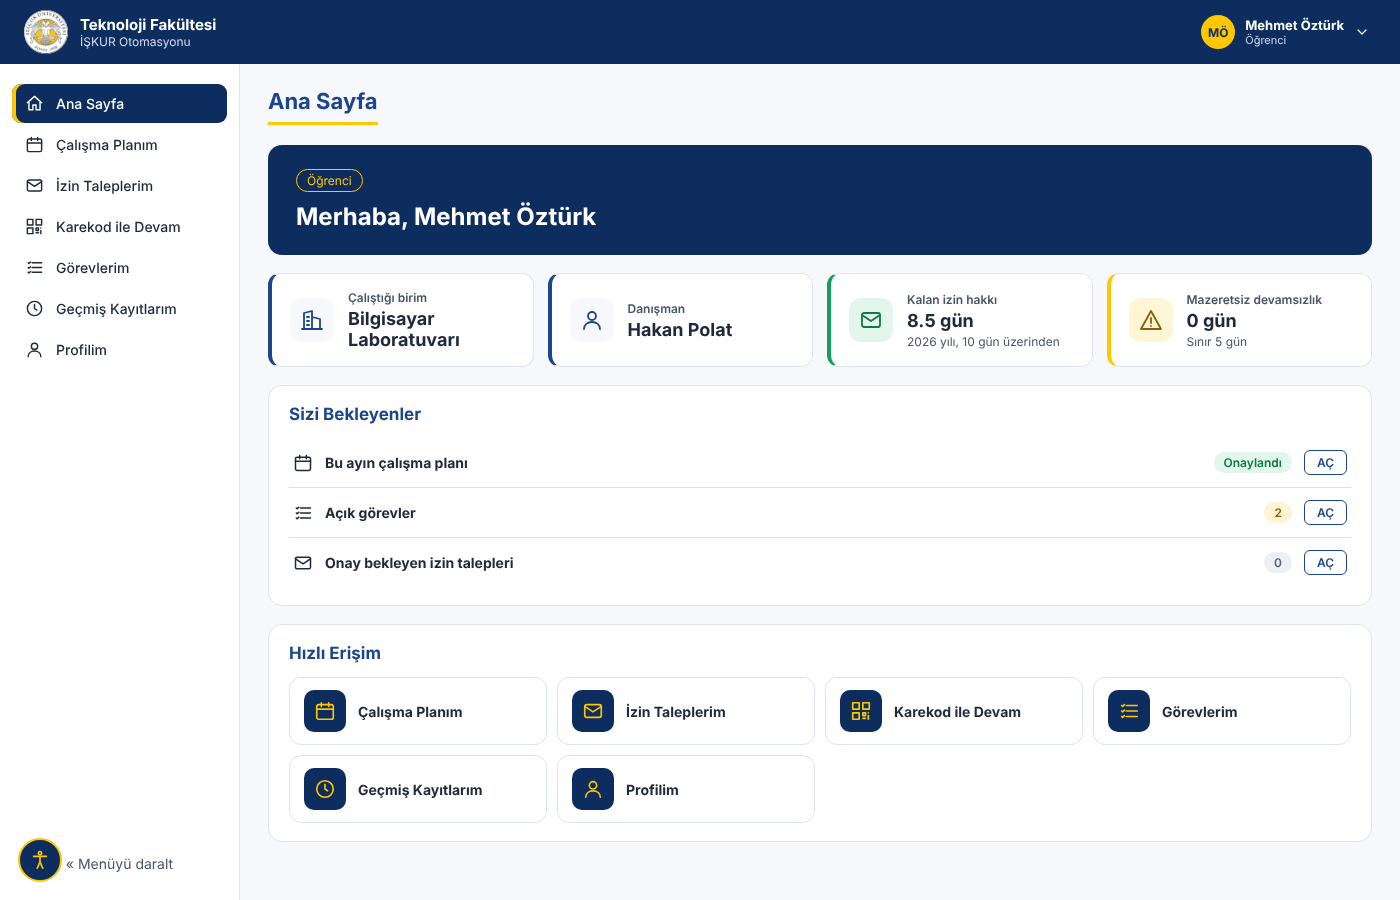
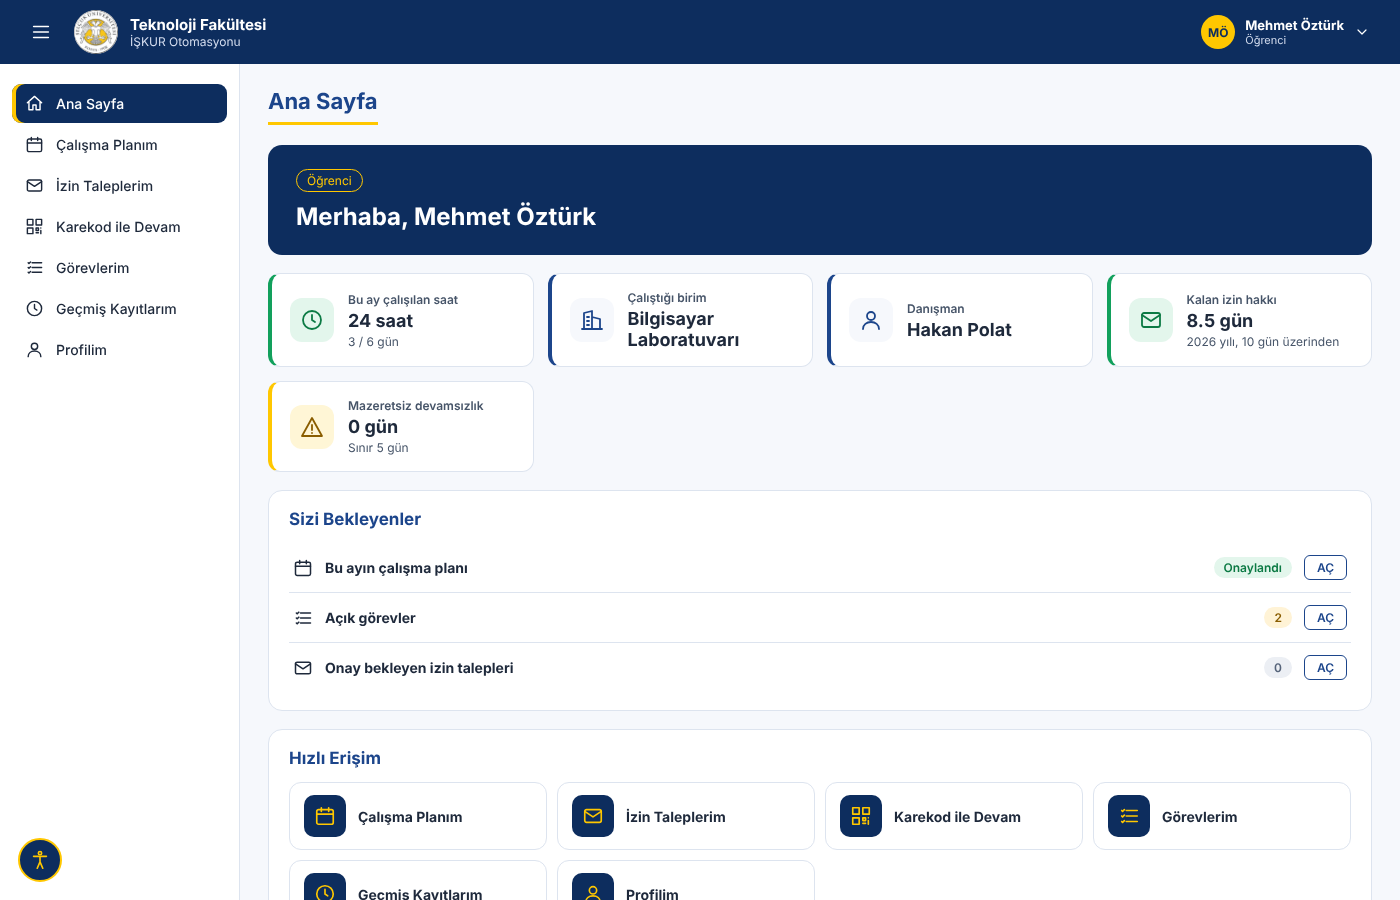
Raporlar danışmana kapatıldı, menü düğmesi, öğrenci için aylık çalışılan saat ve günler

diff --git a/frontend/src/pages/student/HistoryPage.tsx b/frontend/src/pages/student/HistoryPage.tsx
@@ -1,14 +1,15 @@
 import { useState } from 'react';
 import { api } from '../../api/client';
-import type { Absence, Attendance, Leave, WorkPlan } from '../../api/types';
-import { Alert, Badge, Card, Empty } from '../../components/ui';
+import type { Absence, Attendance, AttendanceComparison, Leave, WorkPlan } from '../../api/types';
+import { Alert, Badge, Card, Empty, MonthPicker } from '../../components/ui';
 import {
-  absenceTypeLabels, fmtDate, fmtDateTime, leaveStatusLabels, leaveTone, leaveTypeLabels, monthYear, planStatusLabels, planTone,
+  absenceTypeLabels, fmtDate, fmtDateTime, leaveStatusLabels, leaveTone, leaveTypeLabels, monthYear, outcomeLabels, outcomeTone, planStatusLabels, planTone,
 } from '../../format';
 import { useLoad } from '../../useLoad';
 
-type Tab = 'plans' | 'leaves' | 'absences' | 'attendance';
+type Tab = 'summary' | 'plans' | 'leaves' | 'absences' | 'attendance';
 const tabs: { id: Tab; label: string }[] = [
+  { id: 'summary', label: 'Çalışılan günler' },
   { id: 'plans', label: 'Çalışma planları' },
   { id: 'leaves', label: 'İzinler' },
   { id: 'absences', label: 'Devamsızlıklar' },
@@ -18,7 +19,7 @@ const tabs: { id: Tab; label: string }[] = [
 export default function HistoryPage() {
   const thisYear = new Date().getFullYear();
   const [year, setYear] = useState(thisYear);
-  const [tab, setTab] = useState<Tab>('plans');
+  const [tab, setTab] = useState<Tab>('summary');
   const years = Array.from({ length: 6 }, (_, i) => thisYear - i);
 
   return (
@@ -31,15 +32,77 @@ export default function HistoryPage() {
             </button>
           ))}
         </div>
+        {tab !== 'summary' && (
         <select value={year} onChange={(e) => setYear(Number(e.target.value))}>
           {years.map((y) => <option key={y} value={y}>{y}</option>)}
         </select>
+        )}
       </div>
+      {tab === 'summary' && <Summary />}
       {tab === 'plans' && <Plans year={year} />}
       {tab === 'leaves' && <Leaves year={year} />}
       {tab === 'absences' && <Absences year={year} />}
       {tab === 'attendance' && <Records year={year} />}
     </Card>
+  );
+}
+
+const weekdayName = (iso: string) => new Date(`${iso}T12:00:00`).toLocaleDateString('tr-TR', { weekday: 'long' });
+
+/** Seçilen ayda kaç saat çalışıldığını ve hangi günlerde çalışıldığını gösterir. */
+function Summary() {
+  const now = new Date();
+  const [year, setYear] = useState(now.getFullYear());
+  const [month, setMonth] = useState(now.getMonth() + 1);
+  const data = useLoad(() => api.get<AttendanceComparison>(`/api/attendance/me/comparison?year=${year}&month=${month}`), [year, month]);
+  const c = data.data;
+
+  return (
+    <div className="stack">
+      <MonthPicker year={year} month={month} onChange={(y, m) => { setYear(y); setMonth(m); }} />
+      {data.error && <Alert>{data.error}</Alert>}
+      {c && !c.hasApprovedPlan && <Empty>Bu ay için onaylı çalışma planı yok.</Empty>}
+      {c && c.hasApprovedPlan && (
+        <>
+          <div className="tiles">
+            <div className="tile-card tone-bg-green">
+              <div>
+                <span className="tile-label">Çalışılan saat</span>
+                <strong className="tile-value">{c.workedHours} saat</strong>
+                <span className="tile-hint">Günlük {c.dailyHours} saat</span>
+              </div>
+            </div>
+            <div className="tile-card">
+              <div>
+                <span className="tile-label">Çalışılan gün</span>
+                <strong className="tile-value">{c.attendedDays} / {c.plannedDays}</strong>
+                <span className="tile-hint">Planlanan günler içinde</span>
+              </div>
+            </div>
+            <div className="tile-card tone-bg-amber">
+              <div>
+                <span className="tile-label">İzinli / devamsız gün</span>
+                <strong className="tile-value">{c.leaveDays} / {c.recordedAbsenceDays + c.missingDays}</strong>
+                <span className="tile-hint">{monthYear(year, month)}</span>
+              </div>
+            </div>
+          </div>
+          <table className="table">
+            <thead><tr><th>Tarih</th><th>Gün</th><th>Durum</th><th>Çalışılan saat</th></tr></thead>
+            <tbody>
+              {c.days.map((d) => (
+                <tr key={d.date}>
+                  <td>{fmtDate(d.date)}</td>
+                  <td>{weekdayName(d.date)}</td>
+                  <td><Badge tone={outcomeTone[d.outcome]}>{outcomeLabels[d.outcome]}</Badge></td>
+                  <td>{d.outcome === 'Attended' ? `${c.dailyHours} saat` : '–'}</td>
+                </tr>
+              ))}
+            </tbody>
+          </table>
+        </>
+      )}
+    </div>
   );
 }
 

diff --git a/frontend/src/styles.css b/frontend/src/styles.css
@@ -59,7 +59,7 @@ html[data-contrast="high"] .badge { border: 1px solid #000; }
 .brand-text strong { font-size: 15px; }
 .brand-text span { font-size: 12px; color: var(--navy-text); }
 .icon { flex: none; }
-.icon-btn { background: none; border: 0; color: #fff; cursor: pointer; padding: 6px; border-radius: 8px; display: none; }
+.icon-btn { background: none; border: 0; color: #fff; cursor: pointer; padding: 6px; border-radius: 8px; display: inline-flex; }
 .icon-btn:hover { background: var(--navy-2); }
 .user-menu { position: relative; }
 .user-btn { display: flex; align-items: center; gap: 10px; background: none; border: 0; color: #fff; font: inherit; cursor: pointer; padding: 4px 6px; border-radius: 10px; }
@@ -84,8 +84,7 @@ nav { display: flex; flex-direction: column; gap: 2px; overflow-y: auto; flex: 1
 .nav-item:hover { background: var(--bg); color: var(--blue); text-decoration: none; }
 .nav-item.active { background: var(--navy); color: #fff; box-shadow: inset 4px 0 0 var(--gold); }
 .nav-icon { width: 20px; display: grid; place-items: center; flex: none; }
-.link-btn { background: none; border: 0; color: var(--muted); cursor: pointer; padding: 8px; font: inherit; }
-.collapsed .nav-label, .collapsed .collapse-btn { font-size: 0; }
+.collapsed .nav-label { display: none; }
 .collapsed .nav-item { justify-content: center; }
 .main { min-width: 0; }
 .page-head { padding: 24px 28px 0; }
@@ -193,13 +192,11 @@ nav { display: flex; flex-direction: column; gap: 2px; overflow-y: auto; flex: 1
   .user-text { display: none; }
 }
 @media (max-width: 800px) {
-  .icon-btn { display: inline-flex; }
   .body, .collapsed .body { grid-template-columns: 1fr; }
   .sidebar { position: fixed; top: 0; left: 0; bottom: 0; height: auto; width: 270px; z-index: 60; transform: translateX(-100%); transition: transform .2s; padding-top: 24px; }
   .drawer-open .sidebar { transform: none; }
   .drawer-open .drawer-back { display: block; position: fixed; inset: 0; background: rgba(9, 31, 67, .5); z-index: 55; }
-  .collapsed .nav-label { font-size: inherit; }
-  .collapse-btn { display: none; }
+  .collapsed .nav-label { display: inline; }
   .grid-2 { grid-template-columns: 1fr; }
   .page-head, .content { padding-left: 16px; padding-right: 16px; }
   .public { flex-direction: column; }

diff --git a/frontend/src/pages/Dashboard.tsx b/frontend/src/pages/Dashboard.tsx
@@ -1,6 +1,6 @@
 import { Link } from 'react-router-dom';
 import { api } from '../api/client';
-import type { AbsenceNotice, Leave, LeaveAlert, LeaveBalance, Paged, PlanCalendar, StudentProfileFull, StudentSummary, StudentTask, WorkPlan } from '../api/types';
+import type { AbsenceNotice, AttendanceComparison, Leave, LeaveAlert, LeaveBalance, Paged, PlanCalendar, StudentProfileFull, StudentSummary, StudentTask, WorkPlan } from '../api/types';
 import { useAuth } from '../auth/AuthContext';
 import { Alert, Badge } from '../components/ui';
 import { Icon } from '../components/Icon';
@@ -80,6 +80,7 @@ function StudentSummary() {
   const calendar = useLoad(() => api.get<PlanCalendar>(`/api/work-plans/me/calendar?year=${year}&month=${month}`), []);
   const tasks = useLoad(() => api.get<StudentTask[]>('/api/tasks/me?status=Open'), []);
   const leaves = useLoad(() => api.get<Leave[]>(`/api/leaves/me?year=${year}`), []);
+  const worked = useLoad(() => api.get<AttendanceComparison>(`/api/attendance/me/comparison?year=${year}&month=${month}`), []);
 
   const p = profile.data;
   const b = balance.data;
@@ -96,6 +97,7 @@ function StudentSummary() {
         </Alert>
       ))}
       <div className="tiles">
+        <Tile icon="clock" label="Bu ay çalışılan saat" value={worked.data?.hasApprovedPlan ? `${worked.data.workedHours} saat` : '–'} hint={worked.data?.hasApprovedPlan ? `${worked.data.attendedDays} / ${worked.data.plannedDays} gün` : 'Onaylı plan yok'} tone="green" />
         <Tile icon="building" label="Çalıştığı birim" value={p?.currentUnit?.workUnitName ?? 'Atanmadı'} />
         <Tile icon="user" label="Danışman" value={p?.currentAdvisor?.advisorName ?? 'Atanmadı'} />
         <Tile icon="mail" label="Kalan izin hakkı" value={b ? `${b.remaining} gün` : '–'} hint={b ? `${b.year} yılı, ${b.limit} gün üzerinden` : undefined} tone="green" />

diff --git a/frontend/src/layout/AppLayout.tsx b/frontend/src/layout/AppLayout.tsx
@@ -35,6 +35,9 @@ export default function AppLayout() {
 
   if (!user) return null;
 
+  // Dar ekranda menü çekmece gibi açılır, geniş ekranda daralır / genişler.
+  const toggleMenu = () => (window.matchMedia('(max-width: 800px)').matches ? setDrawer((d) => !d) : setCollapsed((c) => !c));
+
   const items = menus[user.role];
   const current = items.find((m) => (m.path === '/' ? location.pathname === '/' : location.pathname.startsWith(m.path)));
   const title = current?.label ?? (location.pathname.startsWith('/ogrenciler/') ? 'Öğrenci Bilgileri' : 'İŞKUR Otomasyonu');
@@ -49,7 +52,7 @@ export default function AppLayout() {
     <div className={`shell ${collapsed ? 'collapsed' : ''} ${drawer ? 'drawer-open' : ''}`}>
       <header className="site-header">
         <div className="header-in">
-          <button className="icon-btn menu-toggle" onClick={() => setDrawer((d) => !d)} aria-label="Menüyü aç veya kapat">
+          <button className="icon-btn menu-toggle" onClick={toggleMenu} aria-label="Menüyü aç veya kapat">
             <Icon name="menu" size={22} />
           </button>
           <Brand />
@@ -97,9 +100,6 @@ export default function AppLayout() {
               </NavLink>
             ))}
           </nav>
-          <button className="link-btn collapse-btn" onClick={() => setCollapsed((c) => !c)}>
-            {collapsed ? '»' : '« Menüyü daralt'}
-          </button>
         </aside>
         {drawer && <div className="drawer-back" onClick={() => setDrawer(false)} />}
 

diff --git a/frontend/src/layout/menu.ts b/frontend/src/layout/menu.ts
@@ -47,7 +47,6 @@ export const menus: Record<Role, MenuItem[]> = {
     { path: '/izinler', label: 'İzin Durumu', icon: 'mail', desc: 'Öğrencilerinizin izin durumu' },
     { path: '/gorevler', label: 'Görev ve Değerlendirme', icon: 'tasks', desc: 'Görev ver, değerlendirme notu yaz' },
     { path: '/bildirimler', label: 'Devamsızlık Bildirimi', icon: 'bell', desc: 'Bölüm başkanlığına bildirim gönder' },
-    { path: '/raporlar', label: 'Raporlar', icon: 'report', desc: 'Aylık çalışma, devam ve izin raporları' },
   ],
   Student: [
     home,

diff --git a/frontend/src/api/types.ts b/frontend/src/api/types.ts
@@ -213,6 +213,8 @@ export interface AttendanceComparison {
   leaveDays: number;
   recordedAbsenceDays: number;
   missingDays: number;
+  workedHours: number;
+  dailyHours: number;
   days: { date: string; outcome: PlannedDayOutcome }[];
 }
 

diff --git a/src/IskurAuto.Service/Implementations/AttendanceService.cs b/src/IskurAuto.Service/Implementations/AttendanceService.cs
@@ -25,10 +25,11 @@ public class AttendanceService : IAttendanceService
     private readonly IClock _clock;
     private readonly IAuditService _audit;
     private readonly ICurrentUser _current;
+    private readonly WorkPlanSettings _settings;
 
     public AttendanceService(IAttendanceSessionRepository sessions, IAttendanceRecordRepository records,
         IStudentRepository students, IWorkPlanRepository plans, ILeaveRepository leaves, IAbsenceRepository absences,
-        IUnitOfWork uow, IClock clock, IAuditService audit, ICurrentUser current)
+        IUnitOfWork uow, IClock clock, IAuditService audit, ICurrentUser current, WorkPlanSettings settings)
     {
         _sessions = sessions;
         _records = records;
@@ -40,6 +41,7 @@ public class AttendanceService : IAttendanceService
         _clock = clock;
         _audit = audit;
         _current = current;
+        _settings = settings;
     }
 
     // ── Oturum ve karekod ────────────────────────────────────────────────────
@@ -380,7 +382,7 @@ public class AttendanceService : IAttendanceService
         var result = AttendanceComparer.Compare(approvedPlan?.Days ?? Enumerable.Empty<WorkPlanDay>(),
             attended, leaves, absences, _clock.Today);
 
-        return result.ToDto(student.Id, year, month, approvedPlan is not null);
+        return result.ToDto(student.Id, year, month, approvedPlan is not null, _settings.DailyHours);
     }
 
     private static string RequireReason(string? value, string field, string message)

diff --git a/tests/IskurAuto.Tests/Support/TestSupport.cs b/tests/IskurAuto.Tests/Support/TestSupport.cs
@@ -193,7 +193,7 @@ public sealed class TestScope : IDisposable
             db.Documents, policy, context, db.Clock, audit, db.Current, db.WorkPlanSettings);
         Absences = new AbsenceService(absenceRepository, students, context, db.Clock, audit, db.Current);
         Attendance = new AttendanceService(new AttendanceSessionRepository(context), new AttendanceRecordRepository(context),
-            students, new WorkPlanRepository(context), leaveRepository, absenceRepository, context, db.Clock, audit, db.Current);
+            students, new WorkPlanRepository(context), leaveRepository, absenceRepository, context, db.Clock, audit, db.Current, db.WorkPlanSettings);
         Tasks = new TaskService(new StudentTaskRepository(context), students, context, db.Clock, audit, db.Current);
         AbsenceNotices = new AbsenceNoticeService(new AbsenceNoticeRepository(context), students, context, db.Clock, audit, db.Current);
         Reports = new ReportService(students, new WorkPlanRepository(context), new AttendanceRecordRepository(context), leaveRepository,

diff --git a/tests/IskurAuto.Tests/Services/ReportServiceTests.cs b/tests/IskurAuto.Tests/Services/ReportServiceTests.cs
@@ -157,8 +157,16 @@ public class ReportServiceTests
         var head = await ReportAsync(f, ReportKind.MonthlyWork, anotherDepartment, UserRole.DepartmentHead);
         Assert.Equal(new[] { "Mehmet Öztürk", "TOPLAM" }, Names(head));      // istenen bölüm kapsamı aşamaz
 
-        var advisor = await ReportAsync(f, ReportKind.MonthlyWork, October, UserRole.Advisor);
-        Assert.Equal(new[] { "Mehmet Öztürk", "TOPLAM" }, Names(advisor));
+    }
+
+    [Fact]
+    public async Task Advisors_CannotOpenReports()
+    {
+        using var f = await CreateAsync();
+        f.Db.Current.As(UserRole.Advisor, f.Seed.AdvisorId, f.Seed.BmId);
+        using var scope = f.Db.NewScope();
+
+        await Assert.ThrowsAsync<ForbiddenException>(() => scope.Reports.GetAsync(ReportKind.MonthlyWork, October));
     }
 
     [Fact]

diff --git a/src/IskurAuto.Service/Mapping/AttendanceMappers.cs b/src/IskurAuto.Service/Mapping/AttendanceMappers.cs
@@ -46,7 +46,7 @@ public static class AttendanceMappers
         VoidReason = r.VoidReason
     };
 
-    public static AttendanceComparisonDto ToDto(this AttendanceComparison c, int studentId, int year, int month, bool hasPlan) => new()
+    public static AttendanceComparisonDto ToDto(this AttendanceComparison c, int studentId, int year, int month, bool hasPlan, decimal dailyHours) => new()
     {
         StudentId = studentId,
         Year = year,
@@ -57,6 +57,8 @@ public static class AttendanceMappers
         LeaveDays = c.LeaveDays,
         RecordedAbsenceDays = c.RecordedAbsenceDays,
         MissingDays = c.MissingDays,
+        WorkedHours = c.AttendedDays * dailyHours,
+        DailyHours = dailyHours,
         Days = c.Days.Select(d => new PlannedDayDto { Date = d.Date, Outcome = d.Outcome }).ToList()
     };
 }

diff --git a/tests/IskurAuto.Tests/Services/AttendanceServiceTests.cs b/tests/IskurAuto.Tests/Services/AttendanceServiceTests.cs
@@ -548,6 +548,7 @@ public class AttendanceServiceTests
         Assert.True(comparison.HasApprovedPlan);
         Assert.Equal(5m, comparison.PlannedDays);
         Assert.Equal(1m, comparison.AttendedDays);          // 21 Ekim
+        Assert.Equal(8m, comparison.WorkedHours);           // 1 gün x 8 saat
         Assert.Equal(1m, comparison.RecordedAbsenceDays);   // 6 Ekim
         Assert.Equal(2m, comparison.MissingDays);           // 1 ve 14 Ekim: kayıt da izin de yok
         Assert.Equal(PlannedDayOutcome.Upcoming, comparison.Days.Single(d => d.Date.Day == 28).Outcome);

diff --git a/src/IskurAuto.Service/DTOs/AttendanceDtos.cs b/src/IskurAuto.Service/DTOs/AttendanceDtos.cs
@@ -117,5 +117,10 @@ public class AttendanceComparisonDto
     public decimal LeaveDays { get; set; }
     public decimal RecordedAbsenceDays { get; set; }
     public decimal MissingDays { get; set; }
+
+    /// <summary>Gerçekleşen çalışma saati: devam kaydı olan gün sayısı x günlük saat.</summary>
+    public decimal WorkedHours { get; set; }
+
+    public decimal DailyHours { get; set; }
     public IReadOnlyList<PlannedDayDto> Days { get; set; } = Array.Empty<PlannedDayDto>();
 }
